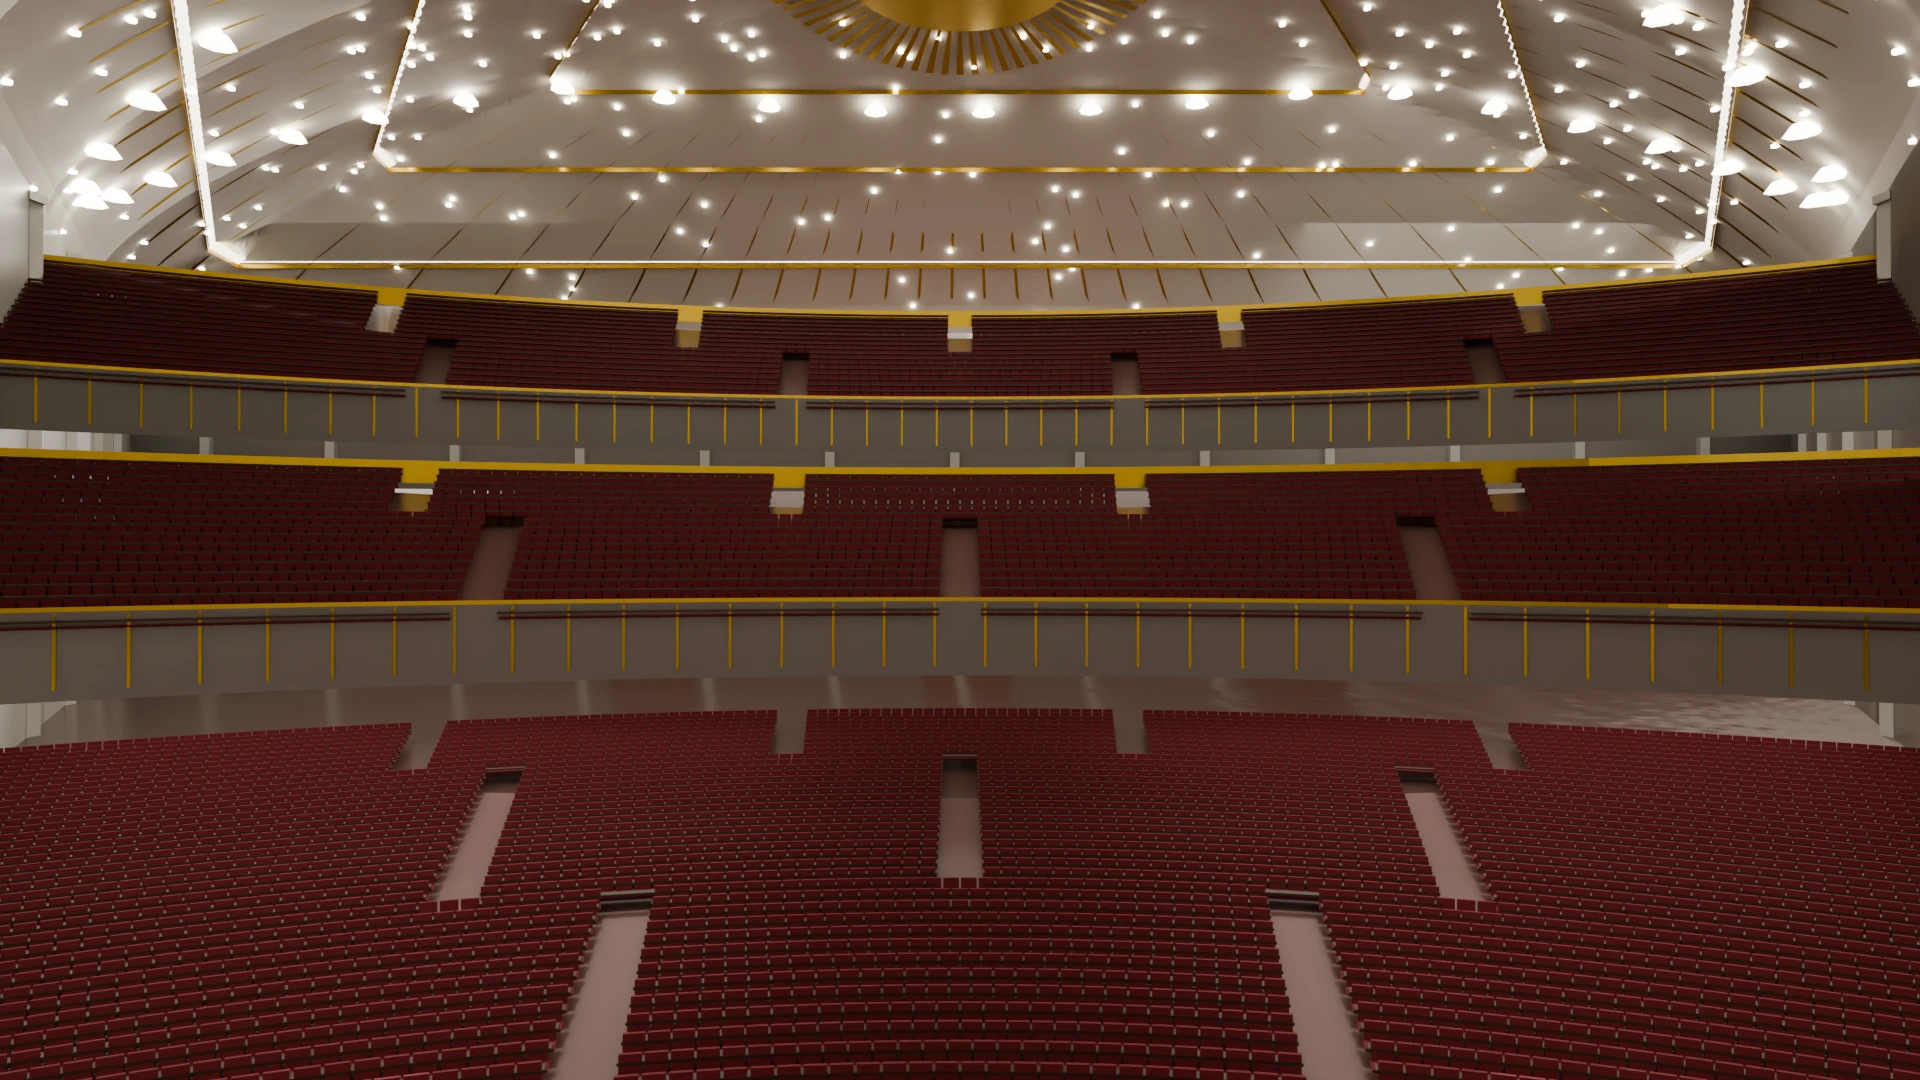
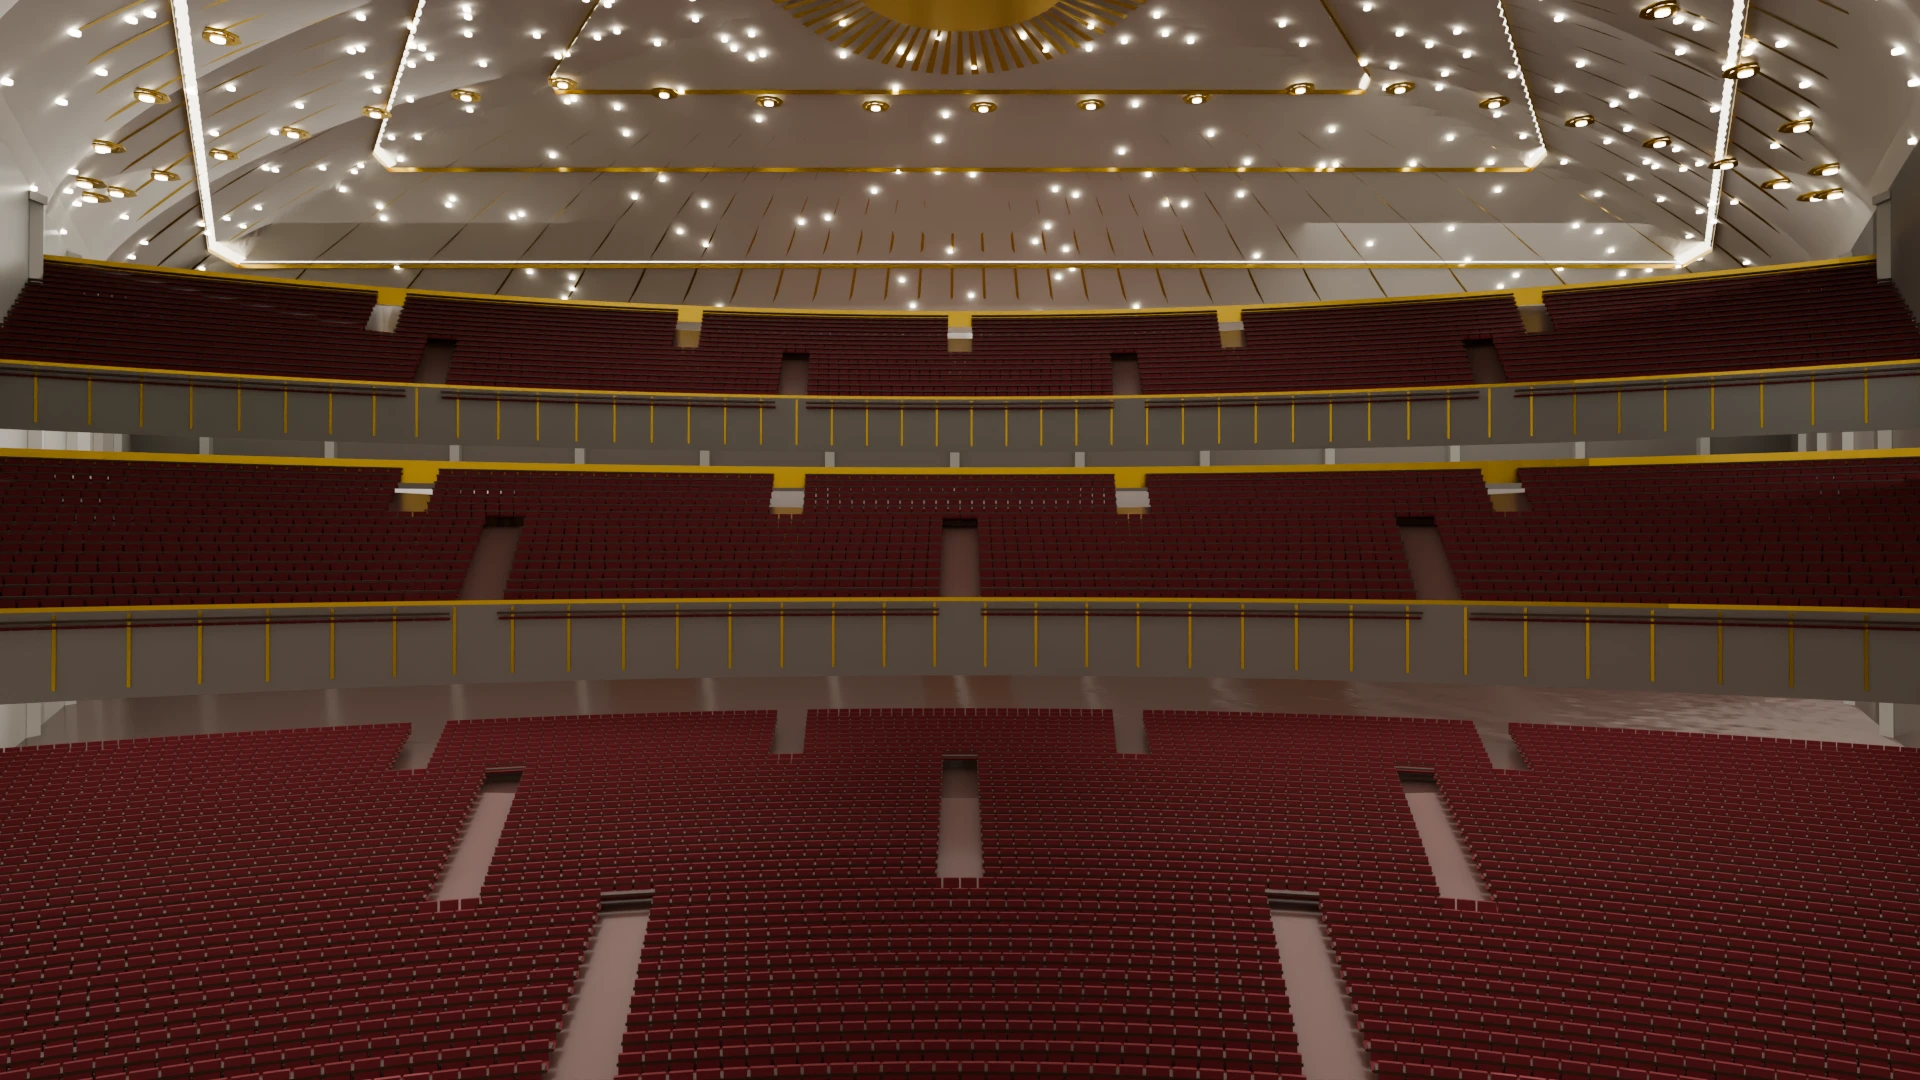
feat(grandhall): 宝相花灯改莲瓣盘，花瓣镏金仅花心发光

diff --git a/tools/grandhall/build_hall.py b/tools/grandhall/build_hall.py
@@ -761,6 +761,7 @@ def build_dome():
 
         # 40 组宝相花灯
         petals = Mesh("宝相花灯", MAT["lamp"], "dome")
+        PLT = Mesh("宝相花·金瓣", MAT["gold"], "dome")
         for i in range(40):
             a = 0.28 + 2 * math.pi * i / 40
             rr = 0.80
@@ -769,8 +770,17 @@ def build_dome():
             if not in_hall(bx, by, 3):
                 continue
             z = D.dome_height(bx, by) - 0.25
-            petals.cyl(bx, by, z - 0.55, z, 0.9, n=8, r1=0.5)
+            # 宝相花：花心一朵 + 内外两圈各八瓣，做成莲瓣式盘
+            petals.cyl(bx, by, z - 0.30, z - 0.02, 0.34, n=16)
+            for ring, (rr, ln, wd, dz) in enumerate(((0.50, 0.62, 0.34, 0.06),
+                                                    (0.86, 0.74, 0.30, 0.16))):
+                for k in range(8):
+                    a = 2 * math.pi * k / 8 + (math.pi / 8 if ring else 0.0)
+                    px = bx + rr * math.cos(a)
+                    py = by + rr * math.sin(a)
+                    PLT.box(px, py, z - 0.26 + dz, wd, ln, 0.09, rz=a)
         emit(petals)
+        emit(PLT, (0, 0, -1))
 
         # 穹顶放射分格肋（金），0.50R—0.94R
         ribs = Mesh("穹顶分格肋", MAT["gold"], "dome")

diff --git a/CHANGELOG.md b/CHANGELOG.md
@@ -15,6 +15,8 @@
 
 ### 变更
 
+- **2026-11-23 精模第七轮：宝相花灯改莲瓣盘**：原为八棱锥（`cyl(n=8, r1=0.5)`），放大后只是一个发光三角。改为**花心 + 内外两圈各八瓣**的莲瓣盘（外圈错 22.5°），且**花瓣改镏金、只有花心发光**——原先整盏都用灯具材质，自发光 6.0 把花瓣糊成一团白斑，金瓣才看得出造型。92 物体 / 66.76 万三角面 / glb(Draco) 6.94 MB。
+
 - **2026-11-23 精模第五十轮：廊庑屋顶整顶转 90°**：鸟瞰里有一条灰顶长条横穿三台，用 `.blend` 逐像素反打射线追到 `东庑·顶`——它的包围盒是 **x[26.3, 227.6] y[−111.7, −98.3]**，201 m 的长向排在 **X** 上，而墙身是 y[−204.6, −5.3]，正脊与墙身成 **90° 错位**。根因在 `gable_roof()`：`two_slope()` 只会把正脊排在 X 向，函数里对 `d > w` 的情形只是把 `span/ridge` 对调（而 `if not long_x: span, ridge = span, ridge` 是一句空操作），于是屋顶按 X 向长边生成、与墙身正交。改为：`d > w` 时照旧用 `(ridge, span)` 生成，再把整顶（含正脊）绕 Z 转 90°。修后包围盒 `东庑·顶 x[120.3,133.7] y[−205.7,−4.3]`、`正脊 x[126.7,127.3]` 沿 Y 走——与墙身完全套合。同一处修好也顺带纠正了 **东朝房／西朝房／后三宫东西庑**（四座 140—200 m 长廊）与所有 `d > w` 的值房。七机位 1920×1080、128 spp 整批 6 分 39 秒（首张 167.6 s 含着色器编译）。
 
 - **2026-11-23 精模第六轮：国徽浮雕重画＋主席台后墙木饰**：①国徽浮雕改用**平滑参数曲线**——蟠龙改 60 段半径渐收的圆柱链（原为方块）、稻穗改沿二次曲线排布的圆粒、齿轮改轮缘＋8 齿、垛口改圆柱凸点，并整体加粗一档（龙身 0.32→0.19 m 渐收、稻粒 0.24 m、出挑层 0.46 m），使 6.4 m 直径的徽章在 60 m 外仍读得出起伏。②主席台后墙由整片灰墙改为**深色木饰板**（39 × 21 m，14 道竖向凹缝），国徽与红屏风落在木底上，会场观感由「灰墙贴一块金圆片」变成有材质的主席台。91 物体 / 65.87 万三角面 / glb(Draco) 6.89 MB。
